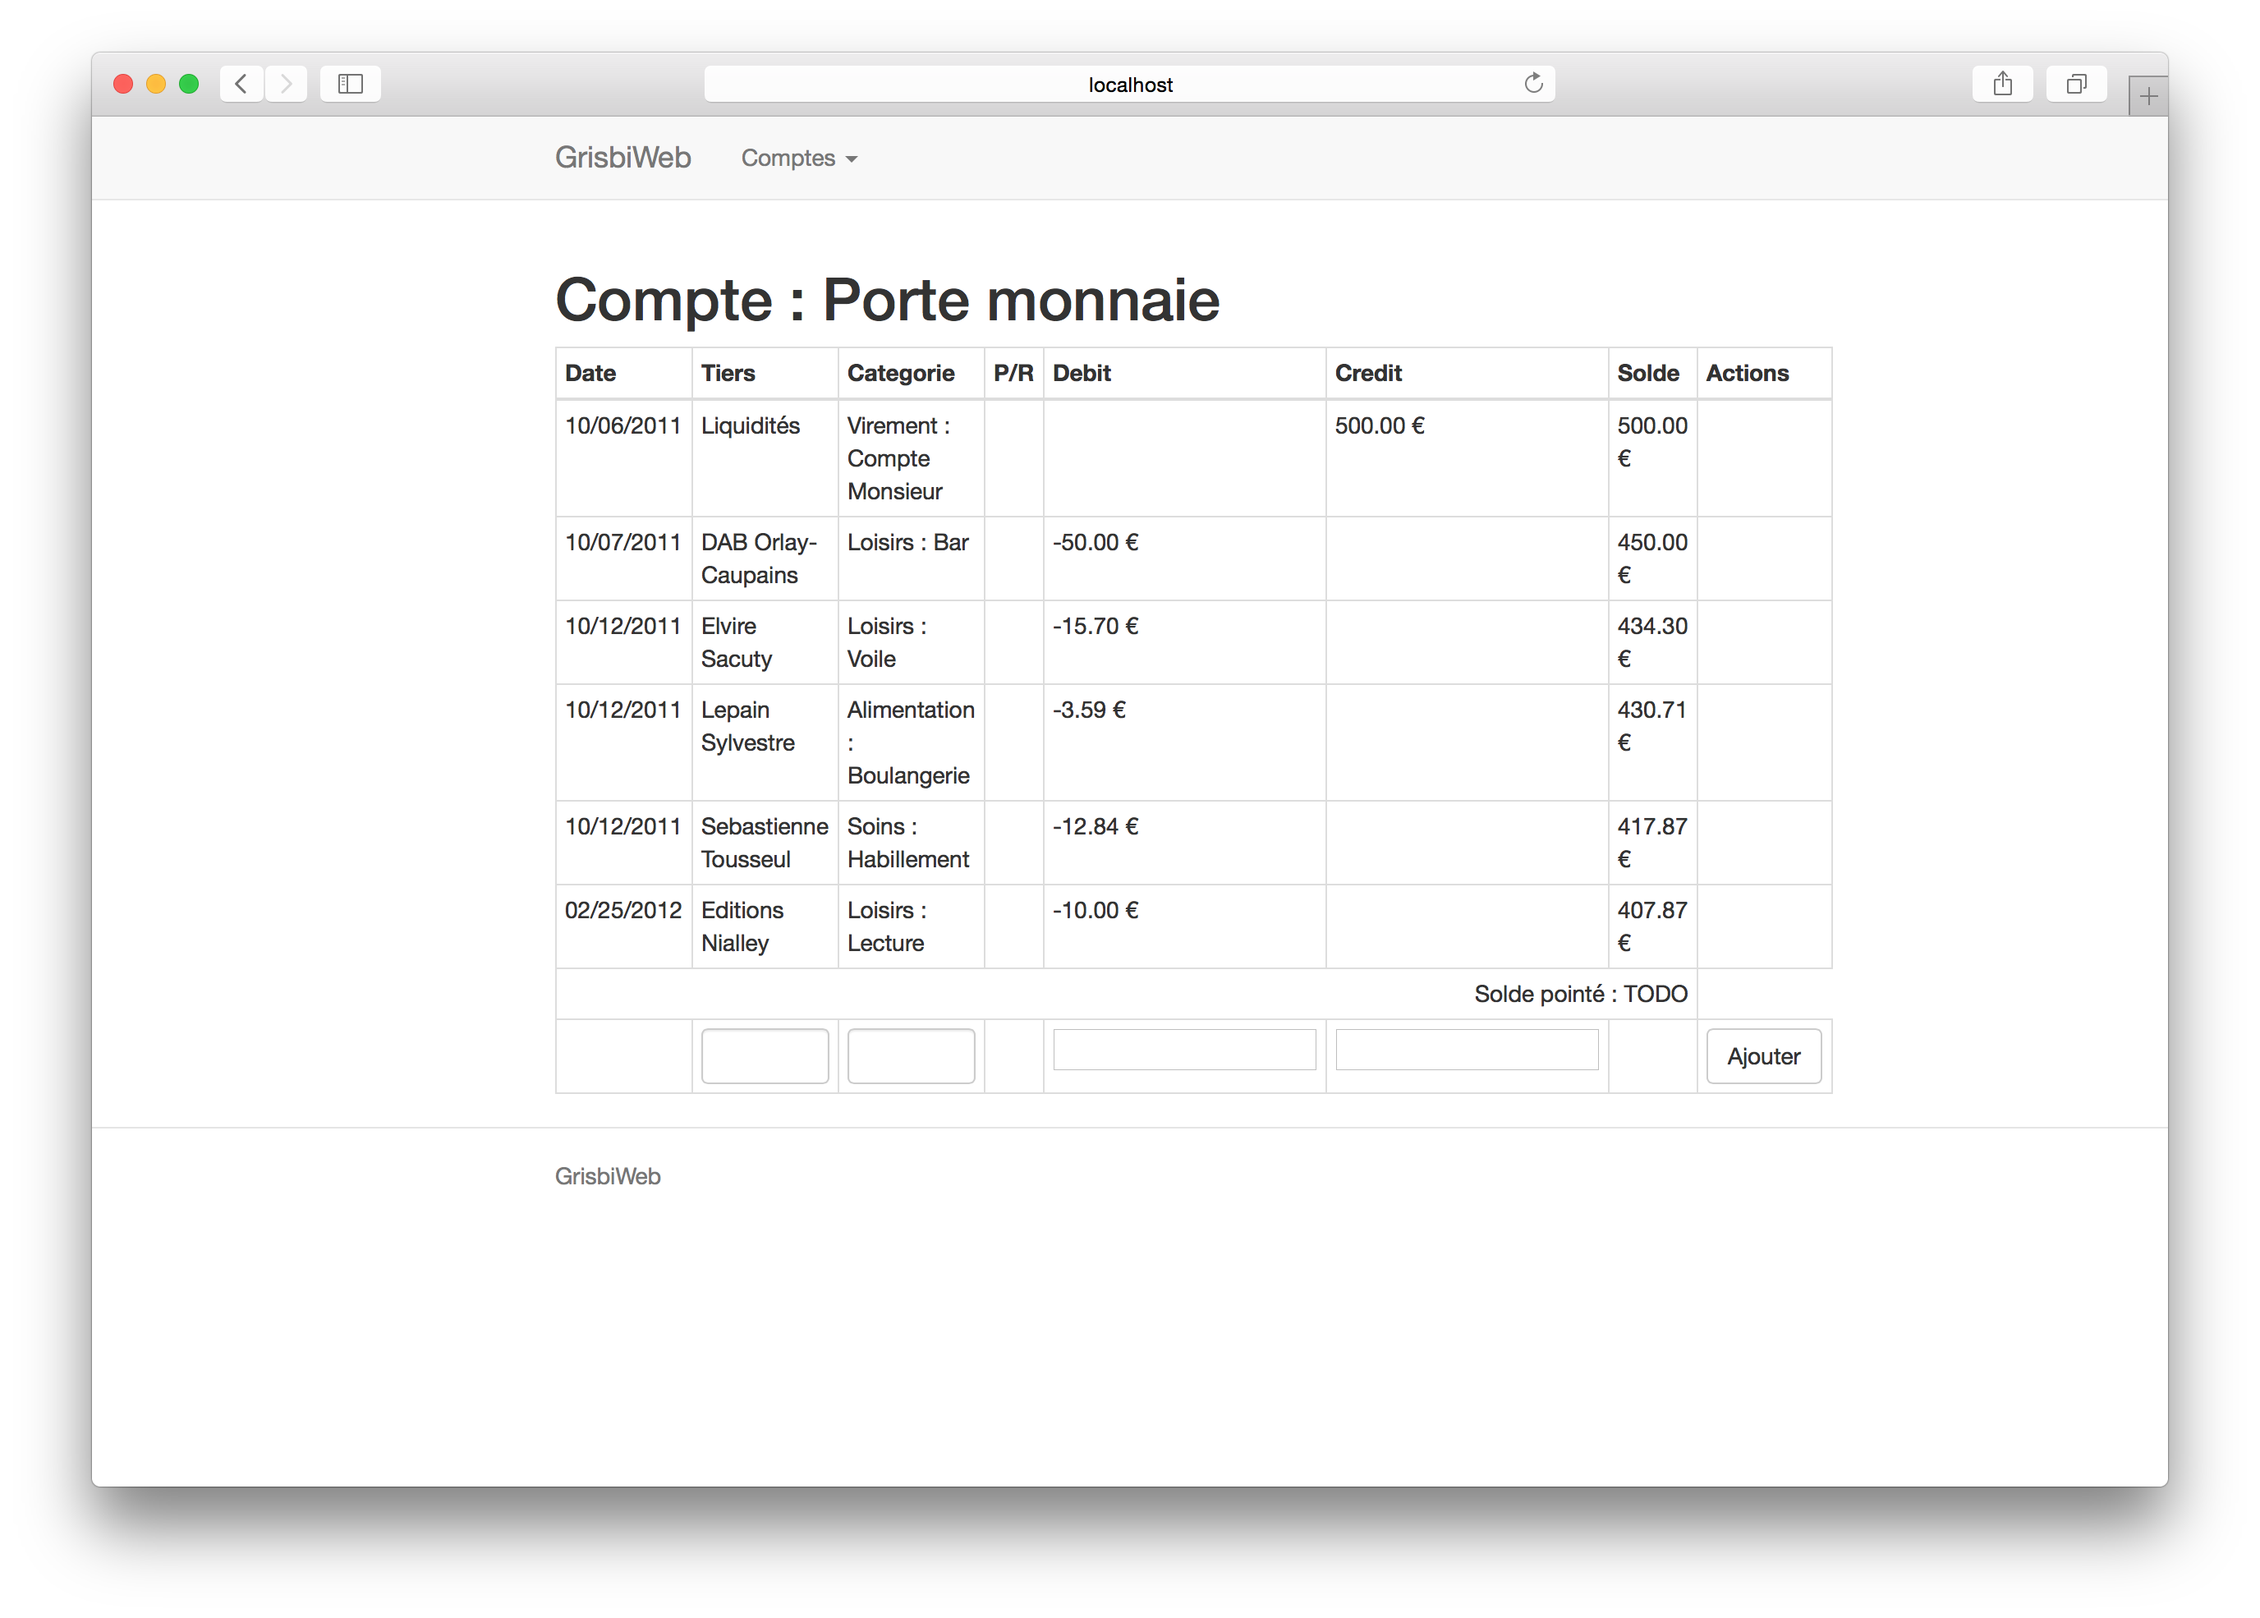
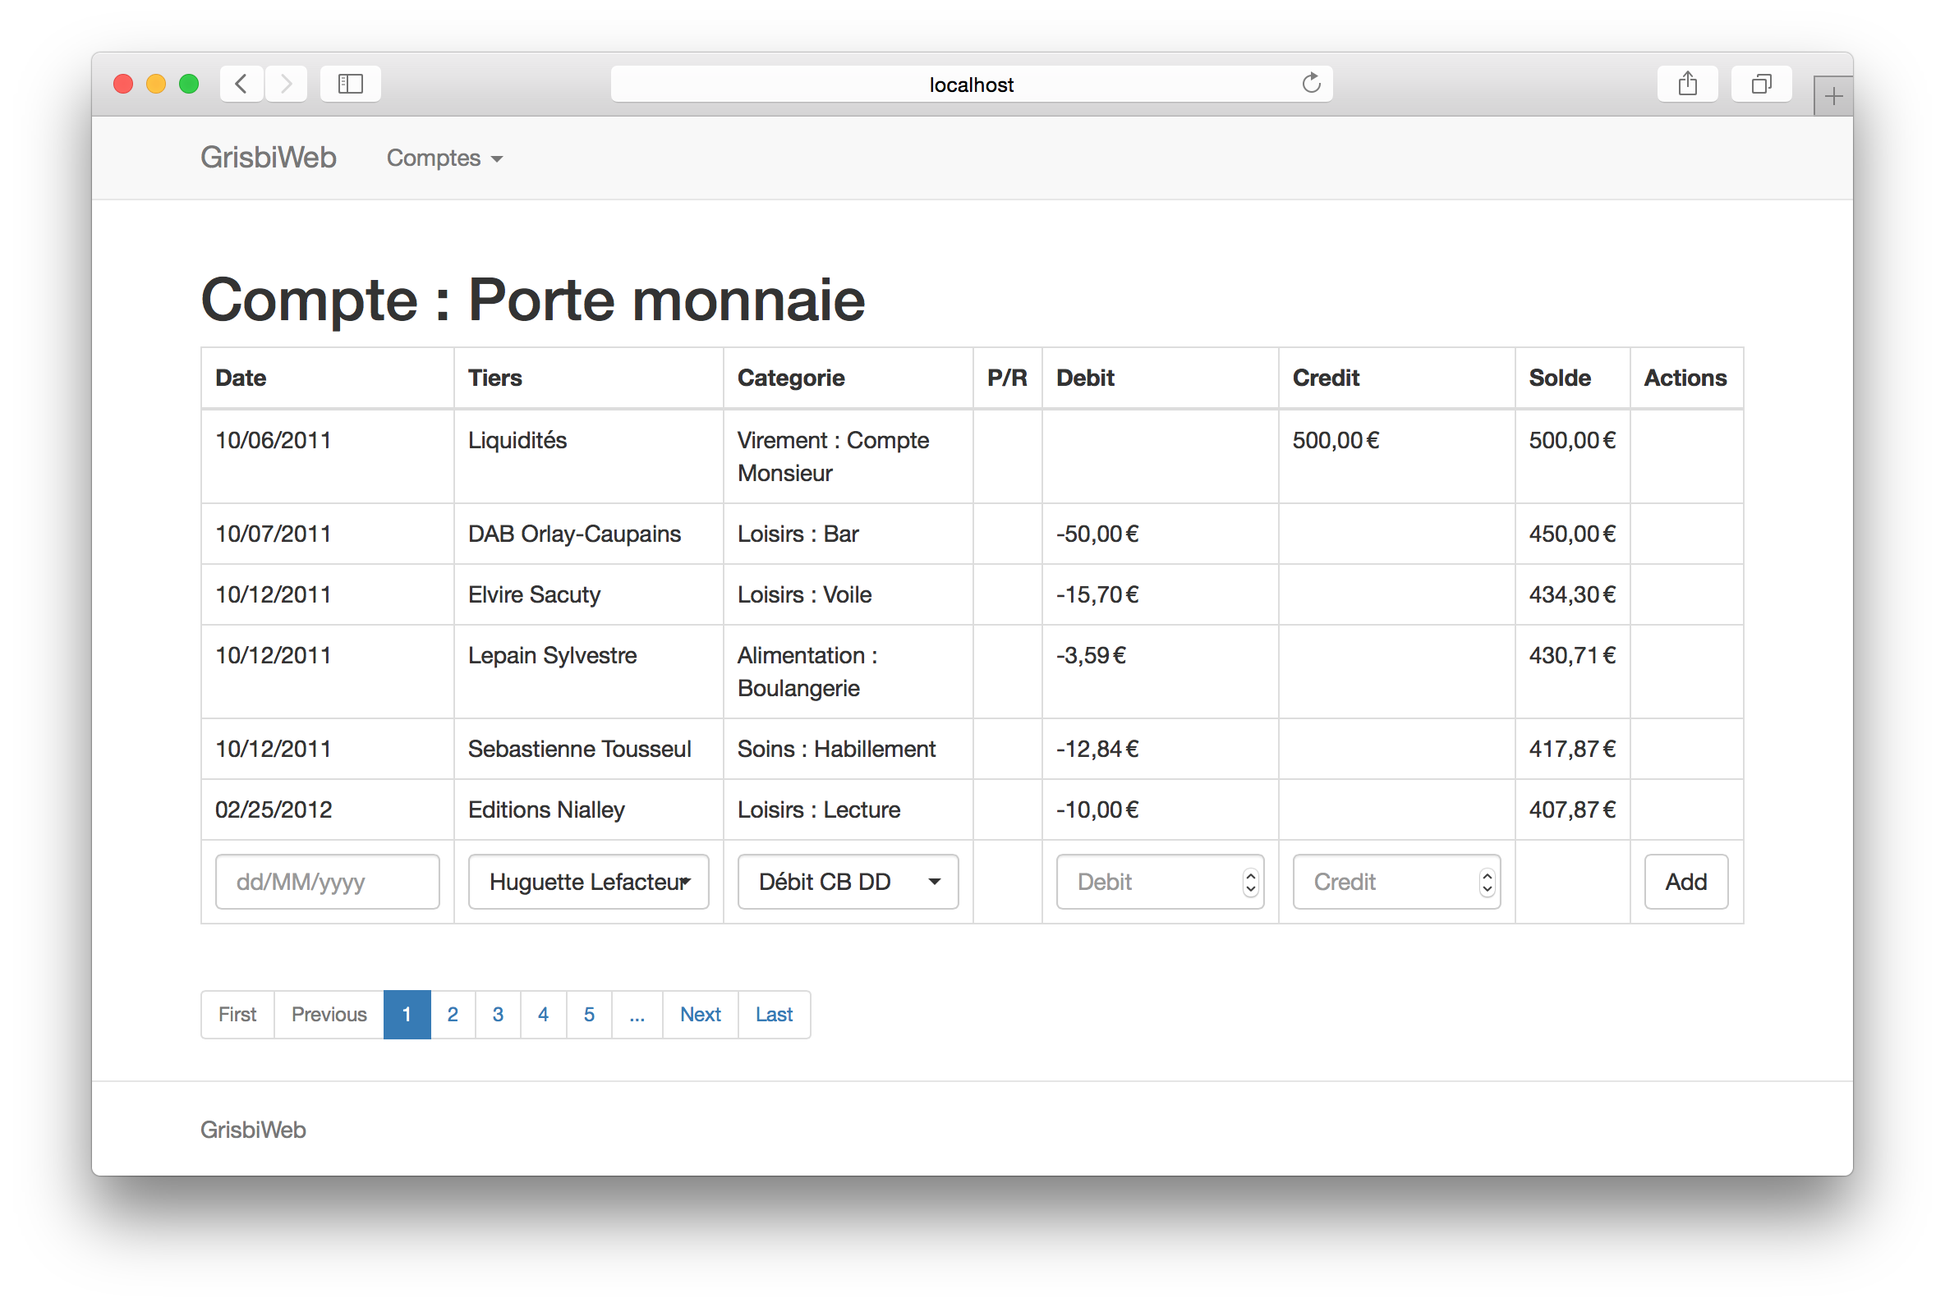
- update screenshot - remove todo in ui

diff --git a/app/views/account.html b/app/views/account.html
@@ -39,9 +39,9 @@
         <td></td>
         <td></td>
     </tr>
-    <tr>
+    <!--  <tr>
       <td colspan="7" class="text-right">Solde pointé : TODO</td>
-    </tr>
+    </tr> -->
   <tr>
     <td>
       <input type="text" 
